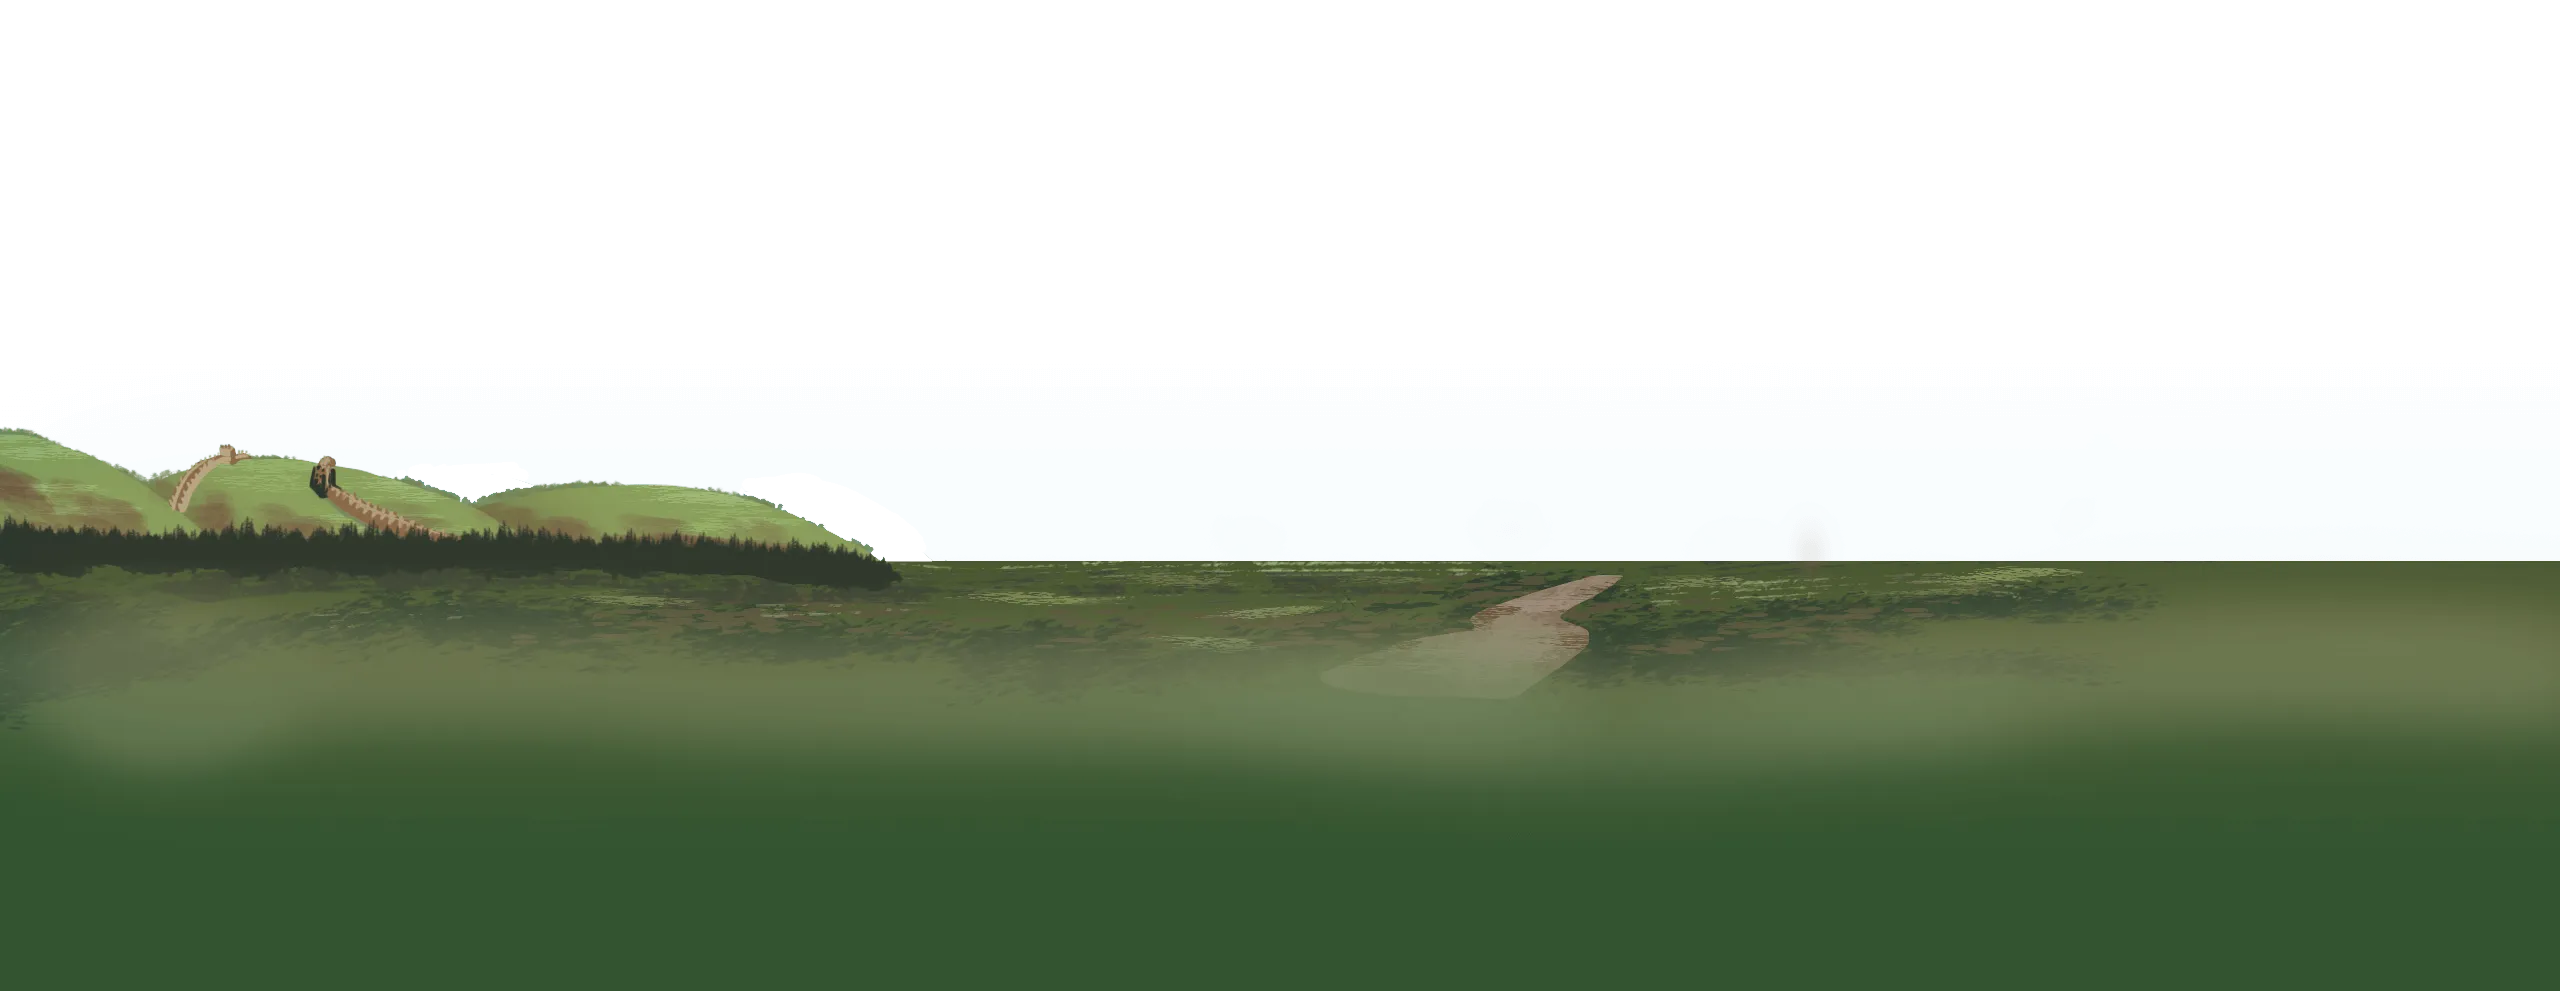
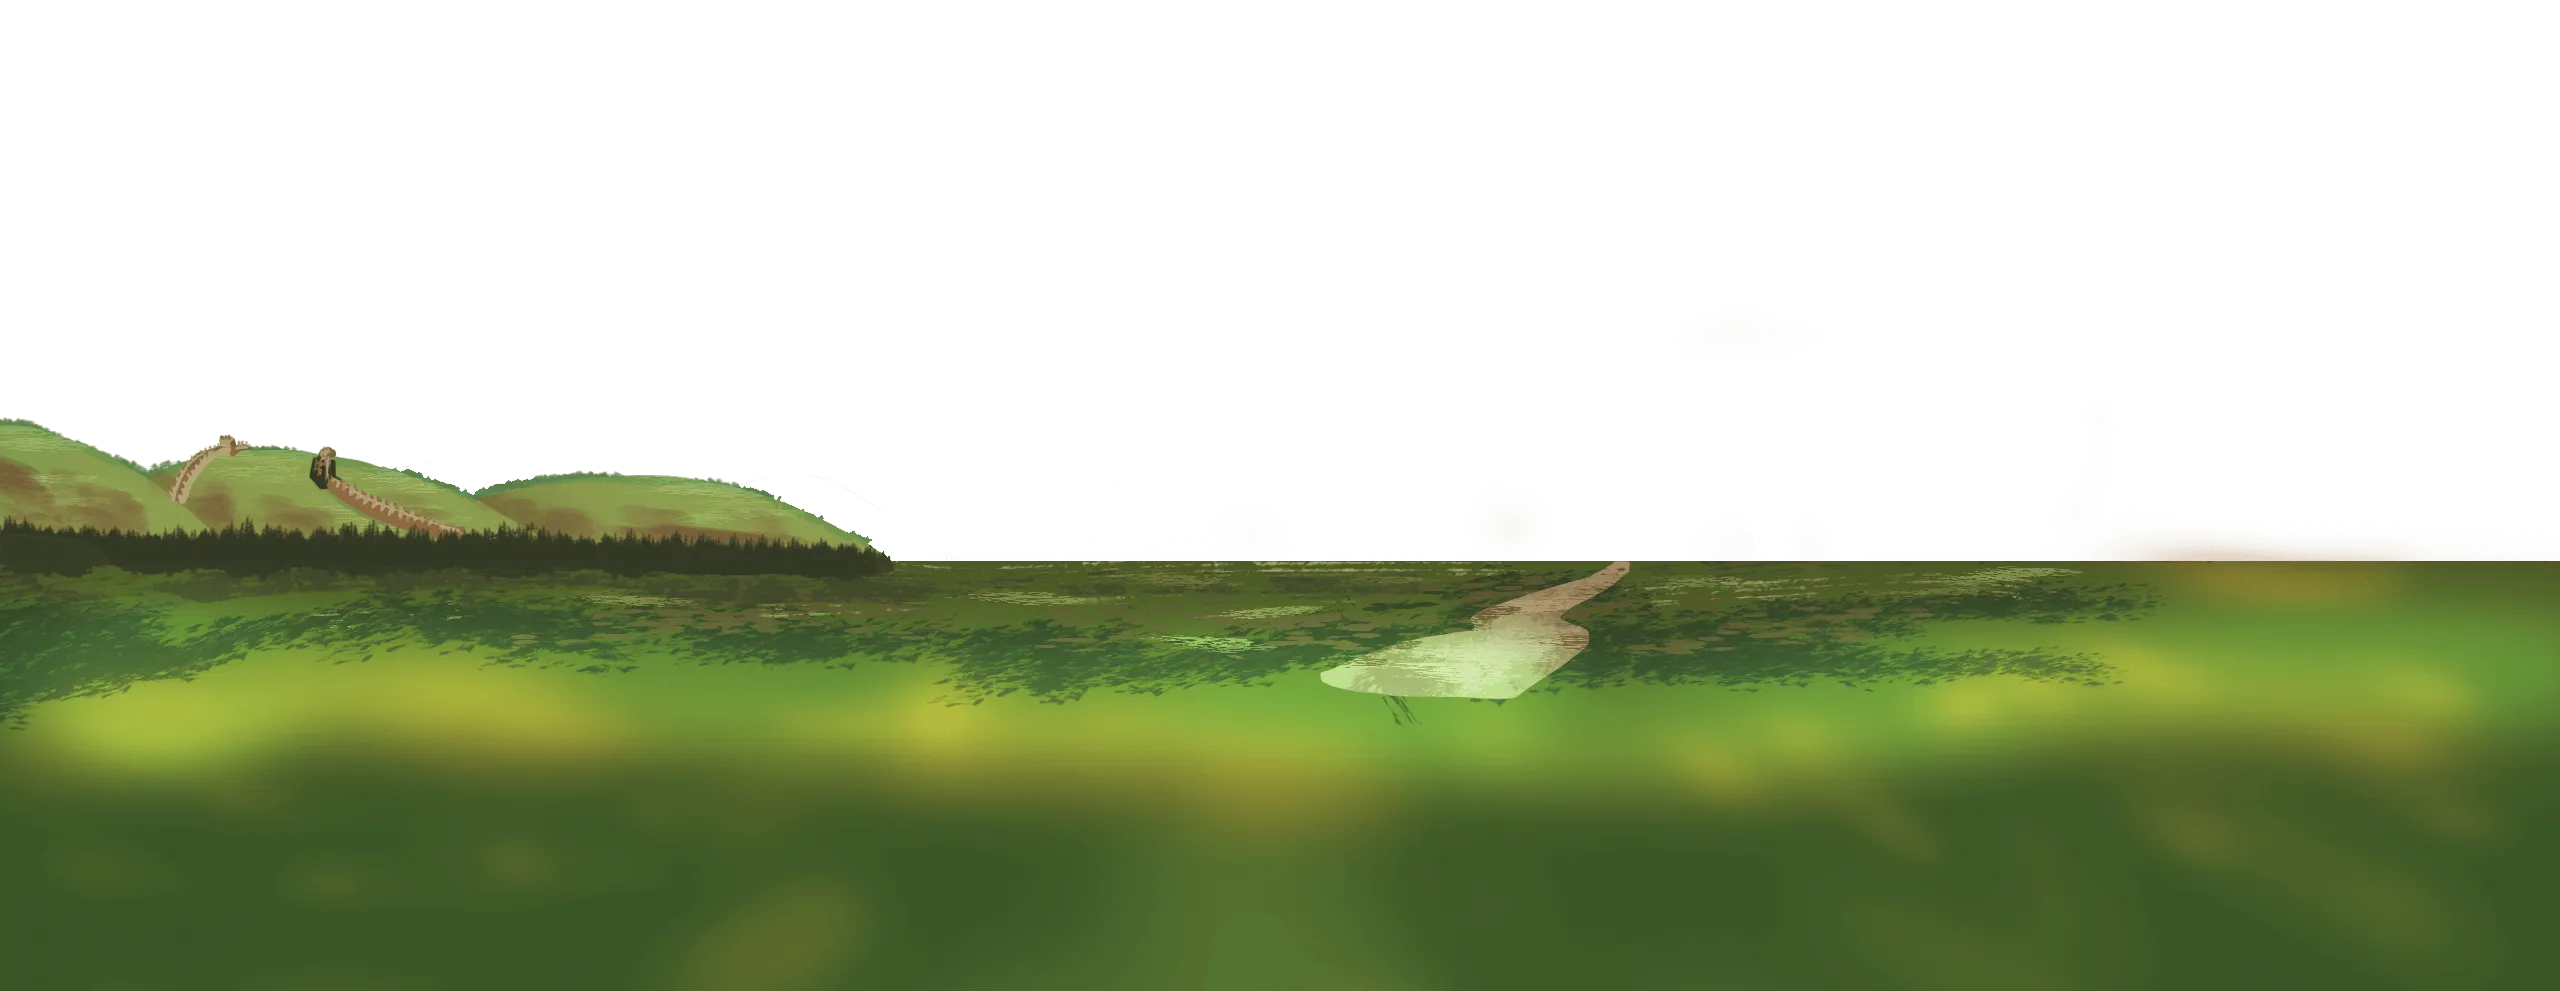
ground dynasty

diff --git a/public/css/components/2-layout/popup.scss b/public/css/components/2-layout/popup.scss
@@ -140,6 +140,7 @@
           width: calc(50% - 0.75vw);
         }
         ul {
+          color: #7c1b1b;
           display: flex;
           flex-direction: column;
           gap: 0.5em;